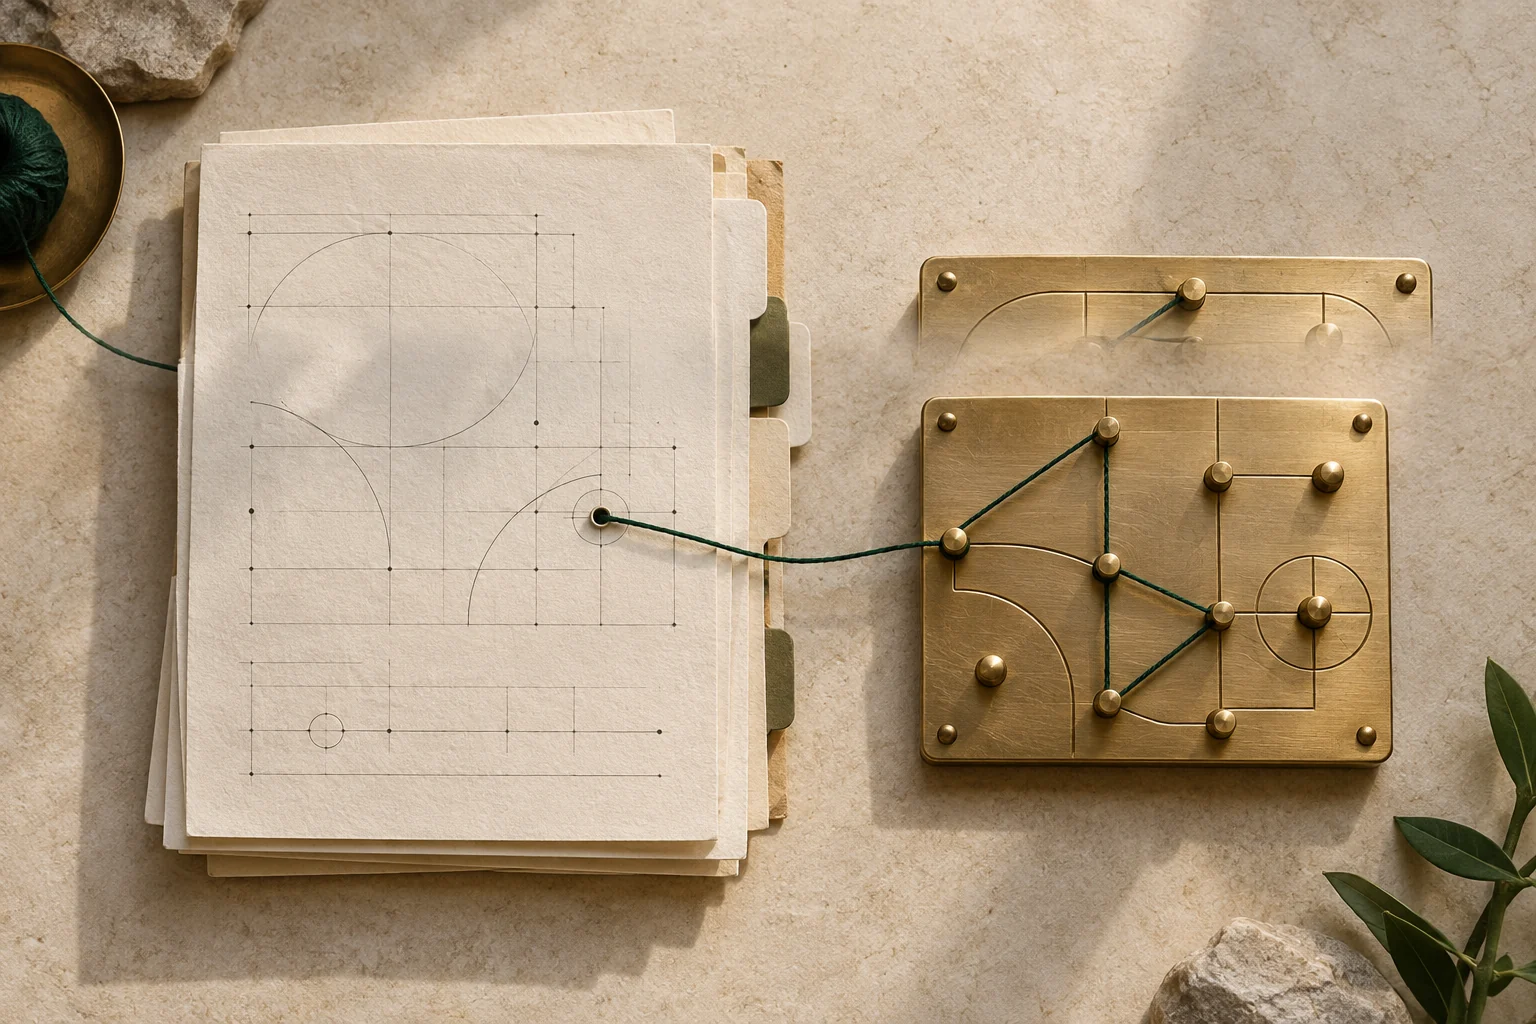
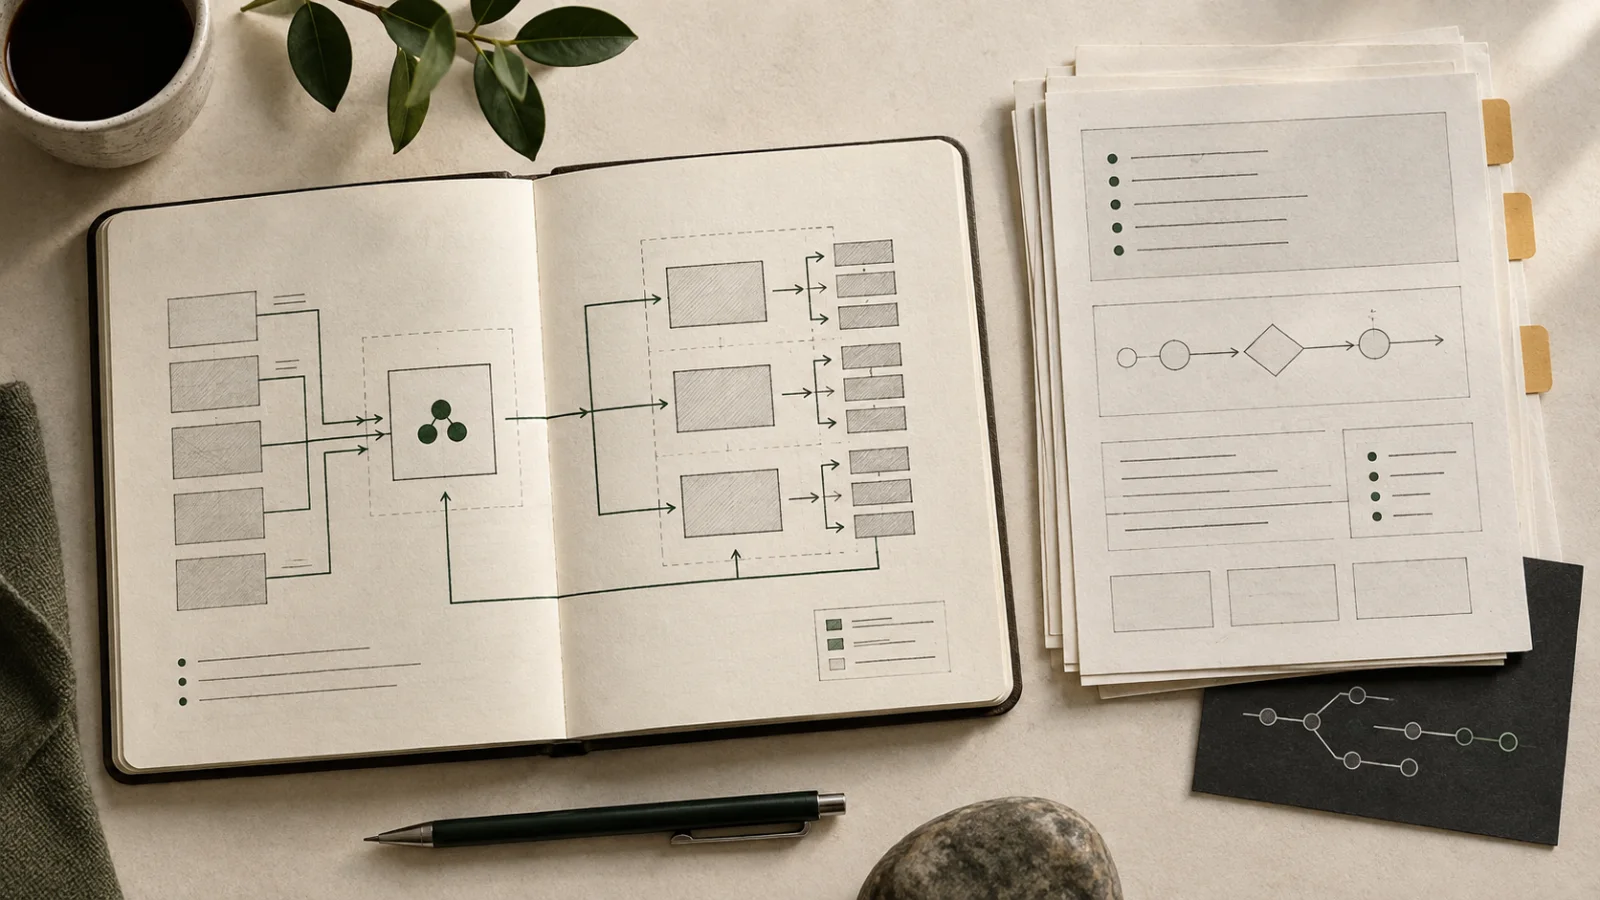
Polish portfolio visuals, contact, and wolf entrance (#29)

diff --git a/src/components/History.tsx b/src/components/History.tsx
@@ -141,28 +141,14 @@ const History: React.FC<
         work.map((job, index) => {
           const jobId = `job-${job.name.toLowerCase().replace(/[^a-z0-9]/g, "-")}`;
           const animation = getSlideInAnimation(index);
-          const isRazorTech = job.name === "Cargill";
-          const isProfertil = job.name.includes("Indoscience");
-          const logo = isRazorTech
-            ? getCompanyLogo("RazorTech")
-            : isProfertil
-              ? getCompanyLogo("Profertil")
-              : getCompanyLogo(job.name);
-          const secondaryCompany = isRazorTech
-            ? {
-                label: "C",
-                name: "Cargill",
-                color: "#1f6e43",
-                background: "#d9ecdc",
-              }
-            : isProfertil
-              ? {
-                  label: "IN",
-                  name: "Indoscience",
-                  color: "#2b5970",
-                  background: "#dcebf0",
-                }
-              : null;
+          const logoBadges =
+            job.name === "Kalkomey"
+              ? ["Kalkomey", "HuntWise", "RazorTech"]
+              : job.name === "Cargill"
+                ? ["RazorTech", "Cargill"]
+                : job.name.includes("Indoscience")
+                  ? ["Profertil", "Indoscience"]
+                  : [job.name];
           const monogram = job.name
             .split(/\s*\/\s*|\s+/)
             .filter(Boolean)
@@ -218,42 +204,46 @@ const History: React.FC<
                 >
                   <span
                     aria-hidden="true"
-                    className={`relative inline-flex h-9 flex-shrink-0 items-start ${secondaryCompany ? "w-12" : "w-8"}`}
+                    className="relative inline-flex h-9 flex-shrink-0 items-start"
+                    style={{ width: 32 + (logoBadges.length - 1) * 25 }}
                   >
-                    {secondaryCompany ? (
-                      <span
-                        title={secondaryCompany.name}
-                        className="absolute bottom-0 right-0 z-0 flex h-6 w-6 items-center justify-center rounded-full border border-white text-xs font-extrabold leading-none tracking-[-0.05em] shadow-sm"
-                        style={{
-                          color: secondaryCompany.color,
-                          backgroundColor: secondaryCompany.background,
-                        }}
-                      >
-                        {secondaryCompany.label}
-                      </span>
-                    ) : null}
-                    <span
-                      className="company-logo relative z-10 flex h-8 w-8 items-center justify-center overflow-hidden rounded-lg border bg-white shadow-sm transition-[border-color,transform] duration-200"
-                      style={{
-                        borderColor: "var(--color-border)",
-                        color: getCompanyHoverColor(job.name),
-                      }}
-                    >
-                      {logo ? (
-                        <Image
-                          src={logo}
-                          alt=""
-                          width={26}
-                          height={26}
-                          className="h-[26px] w-[26px] object-contain"
-                          loading="lazy"
-                        />
-                      ) : (
-                        <span className="text-[0.6rem] font-bold tracking-[-0.02em]">
-                          {monogram}
+                    {logoBadges.map((company, badgeIndex) => {
+                      const badgeLogo = getCompanyLogo(company);
+                      const isAppIcon = company === "Kalkomey" || company === "Nuqlea";
+                      return (
+                        <span
+                          key={company}
+                          title={company}
+                          className={`absolute top-0 flex h-8 w-8 items-center justify-center overflow-hidden rounded-[10px] border shadow-[0_2px_7px_rgba(0,0,0,0.16)] transition-[border-color,transform] duration-200 ${badgeIndex === 0 ? "company-logo" : ""}`}
+                          style={{
+                            left: badgeIndex * 25,
+                            zIndex: logoBadges.length - badgeIndex,
+                            borderColor: isAppIcon ? "transparent" : "var(--color-border)",
+                            backgroundColor: isAppIcon ? "transparent" : "#fff",
+                            color: company === "Cargill" ? "#1f6e43" : getCompanyHoverColor(job.name),
+                          }}
+                        >
+                          {badgeLogo ? (
+                            <Image
+                              src={badgeLogo}
+                              alt=""
+                              width={32}
+                              height={32}
+                              className={
+                                isAppIcon
+                                  ? "h-full w-full object-cover"
+                                  : company === "Indoscience"
+                                    ? "h-full w-full object-cover"
+                                    : "h-[21px] w-[21px] object-contain"
+                              }
+                              loading="lazy"
+                            />
+                          ) : (
+                            <span className="text-xs font-bold">{company === "Cargill" ? "C" : monogram}</span>
+                          )}
                         </span>
-                      )}
-                    </span>
+                      );
+                    })}
                   </span>
                   <span>
                     <span

diff --git a/src/components/RecruiterBot.tsx b/src/components/RecruiterBot.tsx
@@ -24,7 +24,7 @@ import {
   FaTrash,
   FaTimes,
 } from "react-icons/fa";
-import { AnimatePresence, motion } from "framer-motion";
+import { AnimatePresence, motion, useReducedMotion } from "framer-motion";
 import { cn } from "@/utils";
 import PixelWolfAvatar from "@/components/PixelWolfAvatar";
 import { getChatFollowUps } from "@/lib/chat-follow-ups";
@@ -255,6 +255,9 @@ export default function RecruiterBot({
   const copy = dictionary.recruiterBot;
   const contextFileCopy = CONTEXT_FILE_COPY[lang];
   const [isOpen, setIsOpen] = useState(false);
+  const [launcherPhase, setLauncherPhase] = useState<"peeking" | "settled">("peeking");
+  const reduceMotion = useReducedMotion();
+  const shouldPeek = launcherPhase === "peeking" && !reduceMotion;
   const [isExpanded, setIsExpanded] = useState(false);
   const [input, setInput] = useState("");
   const [rolePasteMode, setRolePasteMode] = useState(false);
@@ -755,28 +758,41 @@ export default function RecruiterBot({
         className,
       )}
     >
-      <AnimatePresence initial={false} mode="wait">
+      <AnimatePresence mode="wait">
         {!isOpen ? (
           <motion.button
             key="assistant-launcher"
             type="button"
-            onClick={() => setIsOpen(true)}
+            onClick={() => {
+              setLauncherPhase("settled");
+              setIsOpen(true);
+            }}
             className="group pointer-events-auto relative ml-auto flex cursor-pointer items-end rounded-2xl text-left outline-none focus-visible:ring-2 focus-visible:ring-[color:var(--color-primary)]"
             aria-label={copy.openLabel}
-            initial={{ opacity: 0, y: 10 }}
-            animate={{ opacity: 1, y: 0 }}
+            style={{ transformOrigin: "100% 90%" }}
+            initial={shouldPeek ? { opacity: 1, x: 100, rotate: 0 } : { opacity: 1, x: 0, rotate: 0 }}
+            animate={shouldPeek
+              ? { opacity: 1, x: [100, 65, 65, 0], rotate: [0, -9, -9, 0] }
+              : { opacity: 1, x: 0, rotate: 0 }}
             exit={{ opacity: 0, y: 10 }}
-            transition={{ duration: 0.24, ease: "easeOut" }}
+            transition={shouldPeek
+              ? { delay: 0.32, duration: 1.45, times: [0, 0.26, 0.6, 1], ease: [0.22, 0.68, 0.25, 1] }
+              : { duration: 0.24, ease: [0.16, 1, 0.3, 1] }}
+            onAnimationComplete={() => {
+              setLauncherPhase("settled");
+            }}
           >
-            <span
-              aria-hidden="true"
-              className="assistant-launcher-bubble pointer-events-none absolute bottom-9 right-[calc(100%-0.15rem)] z-10 hidden w-max px-3 py-2 sm:block sm:max-w-52"
-            >
-              <span className="assistant-launcher-bubble__tail" />
-              <span className="relative block text-xs font-normal leading-tight tracking-normal">
-                {copy.launcherBubble}
+            {(launcherPhase === "settled" || reduceMotion) && (
+              <span
+                aria-hidden="true"
+                className="assistant-launcher-bubble pointer-events-none absolute bottom-9 right-[calc(100%-0.15rem)] z-10 hidden w-max px-3 py-2 sm:block sm:max-w-52"
+              >
+                <span className="assistant-launcher-bubble__tail" />
+                <span className="relative block text-xs font-normal leading-tight tracking-normal">
+                  {copy.launcherBubble}
+                </span>
               </span>
-            </span>
+            )}
             <span className="control-hover relative inline-block rounded-2xl p-2">
               <PixelWolfAvatar />
             </span>

diff --git a/src/components/Presentation.tsx b/src/components/Presentation.tsx
@@ -2,6 +2,7 @@
 
 import Image from "next/image";
 import Link from "next/link";
+import { useState } from "react";
 import type { Dictionary } from "@/i18n/types";
 import type { Locale } from "@/i18n/config";
 import CompanyLinkedText from "@/components/CompanyLinkedText";
@@ -28,7 +29,16 @@ const Presentation: React.FC<PresentationProps> = ({
   lang,
   companyUrls,
 }) => {
+  const [copyStatus, setCopyStatus] = useState<"idle" | "copied" | "manual">("idle");
   const mailtoHref = `mailto:${basics.email}?subject=${encodeURIComponent(dictionary.cta.contactSubject)}&body=${encodeURIComponent(dictionary.cta.contactBody)}`;
+  const copyEmail = async () => {
+    // Keep the address visible even if a browser blocks or stalls Clipboard API.
+    setCopyStatus("manual");
+    try {
+      await navigator.clipboard.writeText(basics.email);
+      setCopyStatus("copied");
+    } catch {}
+  };
 
   return (
     <div className="w-full scroll-mt-24">
@@ -45,7 +55,7 @@ const Presentation: React.FC<PresentationProps> = ({
             unoptimized
             className="h-16 w-16 shrink-0 object-cover transition-transform duration-300 hover:-rotate-2 lg:h-20 lg:w-20"
             style={{
-              borderRadius: "1.35rem 1.35rem 1.35rem 0.45rem",
+              borderRadius: "22%",
               border:
                 "1px solid color-mix(in srgb, var(--color-border) 86%, transparent)",
               boxShadow: "8px 10px 26px var(--shadow)",
@@ -107,6 +117,19 @@ const Presentation: React.FC<PresentationProps> = ({
         >
           {dictionary.cta.contact}
         </a>
+        <button
+          type="button"
+          onClick={copyEmail}
+          className="inline-flex min-h-11 items-center justify-center rounded-xl px-3 text-sm font-semibold underline-offset-4 outline-none transition-colors hover:underline focus-visible:ring-2 focus-visible:ring-[color:var(--color-primary)] focus-visible:ring-offset-2 focus-visible:ring-offset-[color:var(--color-background)]"
+          style={{ color: "var(--color-muted)" }}
+        >
+          {dictionary.cta.copyEmail}
+        </button>
+        {copyStatus !== "idle" && (
+          <span className="self-center text-xs" role="status" aria-live="polite" style={{ color: "var(--color-muted)" }}>
+            {copyStatus === "copied" ? dictionary.cta.emailCopied : basics.email}
+          </span>
+        )}
         <Link
           href={`/${lang}/about`}
           className="inline-flex min-h-11 items-center justify-center rounded-xl px-1 text-sm font-semibold underline-offset-4 outline-none transition-colors hover:text-[color:var(--color-text)] hover:underline focus-visible:ring-2 focus-visible:ring-[color:var(--color-primary)] focus-visible:ring-offset-2 focus-visible:ring-offset-[color:var(--color-background)]"

diff --git a/src/app/[lang]/about/page.tsx b/src/app/[lang]/about/page.tsx
@@ -78,7 +78,7 @@ export default async function AboutPage({ params }: AboutPageProps) {
                 unoptimized
                 className="h-44 w-44 object-cover md:h-56 md:w-56 lg:h-60 lg:w-60"
                 style={{
-                  borderRadius: "2.25rem 2.25rem 2.25rem 0.75rem",
+                  borderRadius: "22%",
                   border:
                     "1px solid color-mix(in srgb, var(--color-border) 86%, transparent)",
                   boxShadow: "10px 12px 32px var(--shadow)",

diff --git a/src/constants.ts b/src/constants.ts
@@ -16,9 +16,11 @@ export const COMPANY_LOGOS: Record<string, string> = {
   Mangxo: "/images/work/mango-mark.svg",
   Geome7ric: "/images/work/geome7ric-mark.svg",
   Kalkomey: "/images/work/kalkomey-mark.png",
+  HuntWise: "/images/work/huntwise-mark.png",
   Nuqlea: "/images/work/nuqlea-mark.png",
   RazorTech: "/images/work/razortech-mark.svg",
   Profertil: "/images/work/profertil-symbol.svg",
+  Indoscience: "/images/work/indoscience-mark.jpg",
 };
 
 // Colores del sistema (referencia a CSS variables)

diff --git a/src/app/globals.css b/src/app/globals.css
@@ -1213,6 +1213,10 @@ html:not(.dark) .pixel-assistant-avatar,
 
 .pixel-assistant-avatar--composer {
   --avatar-size: 48px;
+  /* The last sprite row is its feet; no spacer below them before the composer edge. */
+  height: calc(
+    var(--avatar-size) * var(--pixel-wolf-rows) / var(--pixel-wolf-columns)
+  );
 }
 
 /* Keep the floating launcher from covering the single-column mobile layout. */
